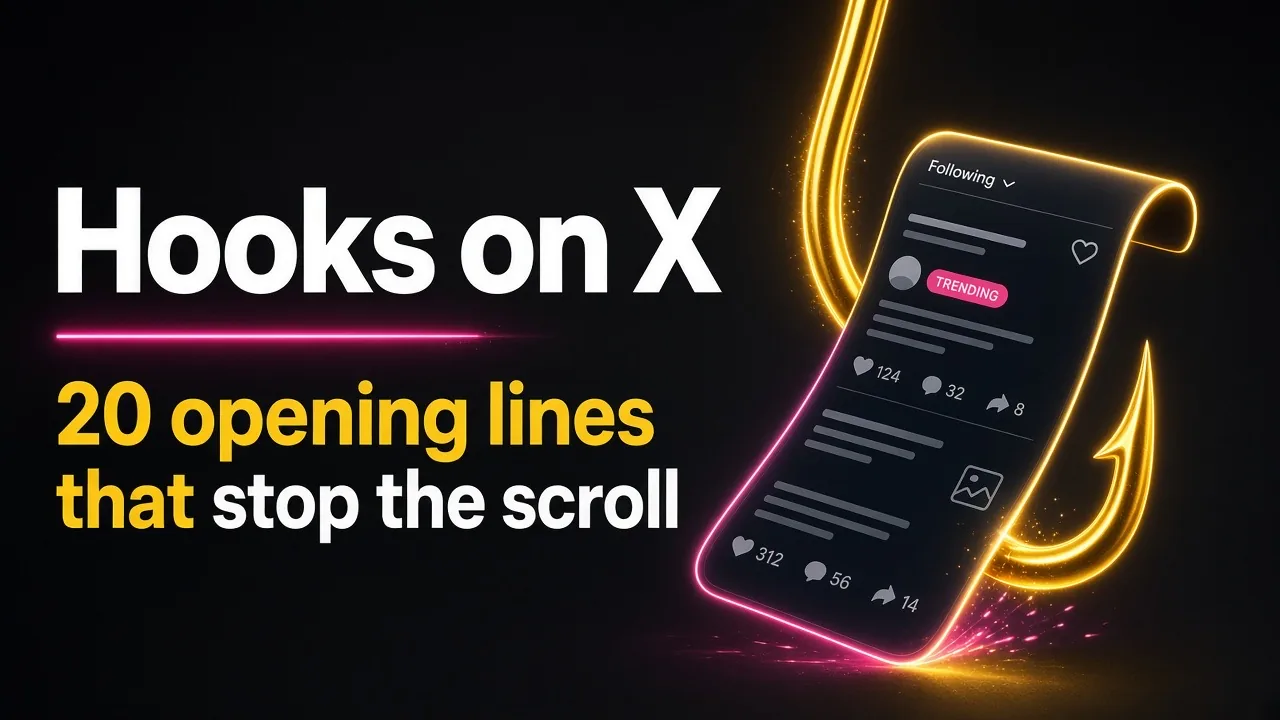
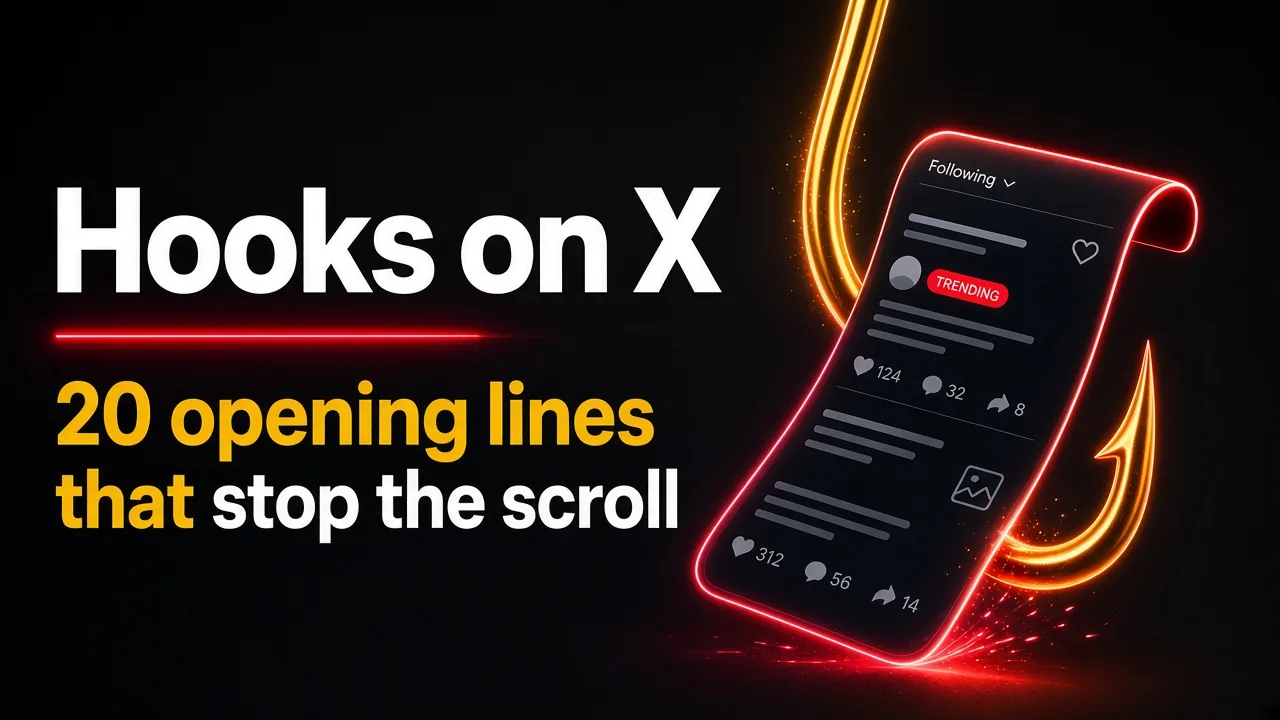
Hooks: red-accent cover image (v=2)

diff --git a/hooks/index.html b/hooks/index.html
@@ -47,7 +47,7 @@
 <main id="inhoud" class="g">
 <p class="text-sm"><a href="/">← willemvroom.com</a></p>
 <h1 class="sr-only">Hooks on X: 20 opening lines that stop the scroll</h1>
-<picture><source srcset="/work/hooks-on-x-cover.webp?v=1" type="image/webp"><img style="display:block;margin-top:1rem;width:100%;height:auto;border-radius:16px;background:#000" src="/work/hooks-on-x-cover.jpg?v=1" width="1280" height="720" alt="Hooks on X: 20 opening lines that stop the scroll"></picture>
+<picture><source srcset="/work/hooks-on-x-cover.webp?v=2" type="image/webp"><img style="display:block;margin-top:1rem;width:100%;height:auto;border-radius:16px;background:#000" src="/work/hooks-on-x-cover.jpg?v=2" width="1280" height="720" alt="Hooks on X: 20 opening lines that stop the scroll"></picture>
 <p class="btns"><a href="https://x.com/willemvroom/status/2115395642352685566" target="_blank" rel="noopener">View the post on X</a><a href="/how-to-hook/">How to Hook: write your own →</a><a href="/hooks-for-bots/">Hooks for Bots: prompts for AI →</a></p>
 <p>This guide walks you through 20 proven hooks. Every hook has its template and an example post, plus extra notes: why it works, when to use it, what to watch out for, and another example.</p>
 <nav aria-label="Contents"><p class="lb">Contents</p><ol>
